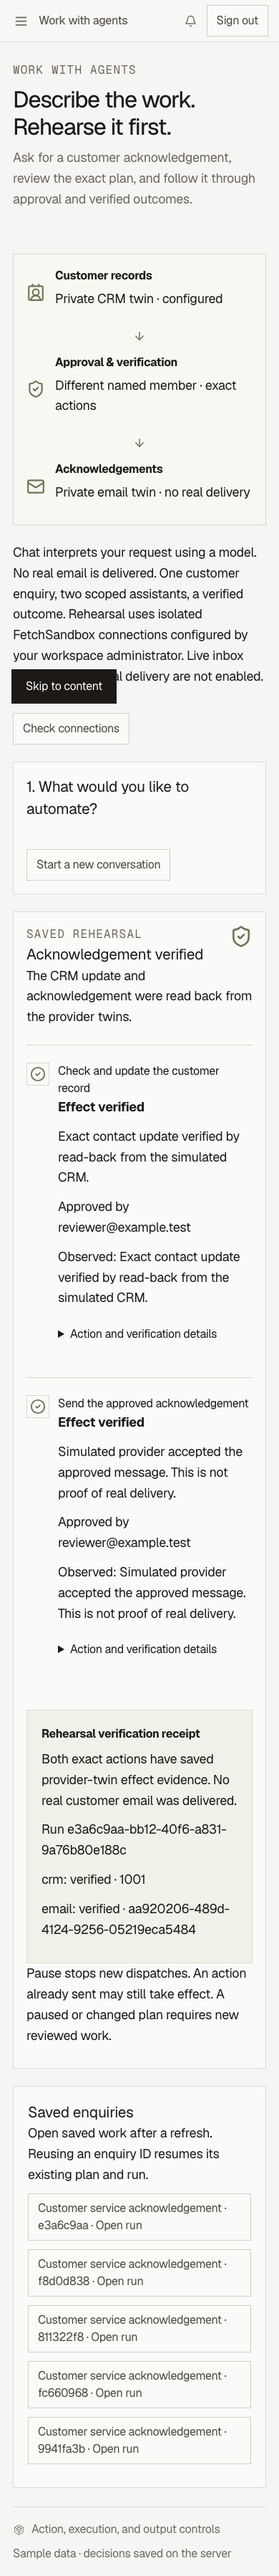
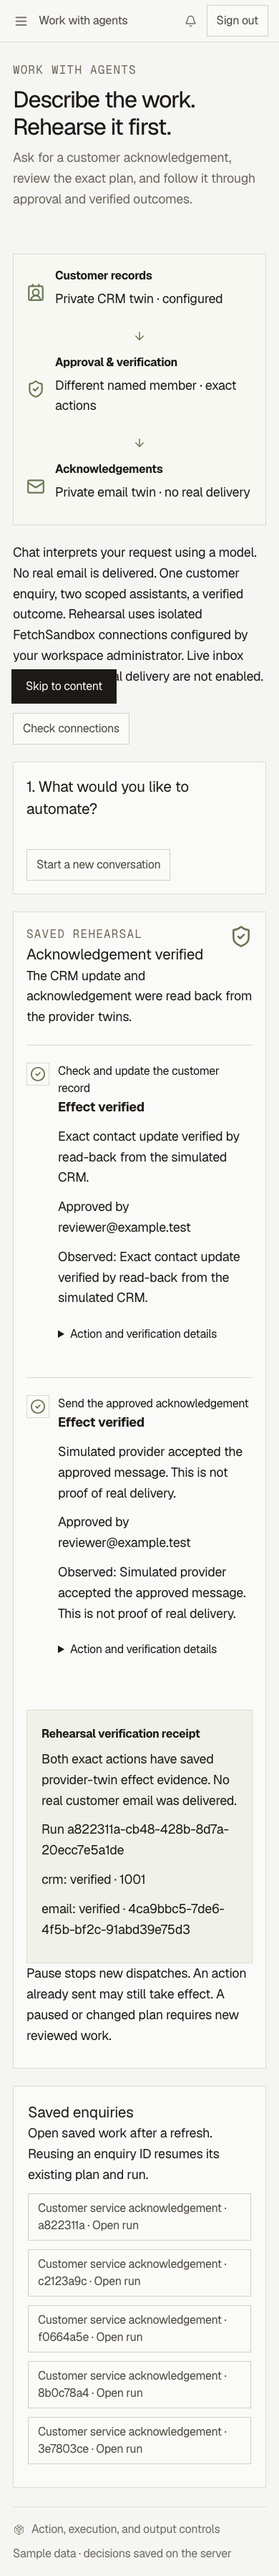
Preview hosted enquiries against the server-pinned contact without weakening execution

diff --git a/scripts/hosted-connector-proof.ts b/scripts/hosted-connector-proof.ts
@@ -66,7 +66,9 @@ async function main() {
     for (let i = 0; i < 100; i++) { if (api.exitCode !== null || api.signalCode !== null) throw Error("LoopLabs HTTP handlers failed to start"); const match = output.match(/\{"port":(\d+)\}/); if (match) { origin = `http://127.0.0.1:${match[1]}`; break; } await delay(100); }
     assert(origin, "LoopLabs HTTP readiness missing");
     async function apiCall(path: string, subject: string, value?: object) { return call(origin, path, actors[subject], value); }
-    const managed = await apiCall("/api/workspace/enquiries", "reviewer", { operation: "rehearse", id: randomUUID(), planHash: "a".repeat(64) });
+    const hostedPlan = await apiCall("/api/workspace/enquiries", "reviewer", { operation: "prepare", id: randomUUID(), fixtureId: "service" });
+    assert.equal(hostedPlan.status, 200); assert.equal(hostedPlan.data.saved.plan.contact.id, binding.contactId);
+    const managed = await apiCall("/api/workspace/enquiries", "reviewer", { operation: "rehearse", id: hostedPlan.data.saved.id, planHash: hostedPlan.data.saved.plan_hash });
     assert.equal(managed.status, 409); assert(managed.data.error.includes("atomic approval-version"));
     assert.equal((await db.query("SELECT count(*) FROM ll_connector_actions")).rows[0].count, "0");
     check("Managed hosted rehearsal refuses the missing atomic CRM guarantee before submitting any action");
@@ -119,7 +121,7 @@ async function main() {
     assert.equal((await apiCall("/api/durable/connectors", "executor", { operation: "execute", actionId: email.action_id })).status, 409);
     assert.equal((await rows(email.action_id)).length, 0);
     check("Unsupported atomic CRM version guard keeps the complete workflow held; no downstream email or false green");
-    const files = ["lib/durable/service.ts", "lib/workflows/service.ts", "lib/enquiries/dispatch.ts", "lib/connectors/hosted.ts", "lib/connectors/twin.ts", "lib/connectors/service.ts", "app/api/durable/connectors/route.ts", "app/api/durable/workflows/route.ts", "scripts/hosted-connector-proof.ts", "scripts/workflow-http-proof-server.ts"];
+    const files = ["lib/enquiries/service.ts", "lib/enquiries/contracts.ts", "app/api/workspace/enquiries/route.ts", "lib/durable/service.ts", "lib/workflows/service.ts", "lib/enquiries/dispatch.ts", "lib/connectors/hosted.ts", "lib/connectors/twin.ts", "lib/connectors/service.ts", "app/api/durable/connectors/route.ts", "app/api/durable/workflows/route.ts", "scripts/hosted-connector-proof.ts", "scripts/workflow-http-proof-server.ts"];
     const fingerprints: Record<string, string> = {};
     for (const file of files) fingerprints[file] = createHash("sha256").update(await readFile(file)).digest("hex");
     await writeFile("docs/evidence/hosted-connector-proof.json", JSON.stringify({ at: new Date().toISOString(), scope: "Actual LoopLabs HTTP handlers, isolated PostgreSQL, native FetchSandbox identity/API and Resend twin effects. No live provider or inbox delivery.", checks, acceptedResponseLossEvidence: lossEvidence, sourceFingerprints: fingerprints, limitations: ["CRM update cannot satisfy existing atomic approval-version invariant with this provider binding; downstream work stays held.", "Not a completed CRM-to-email workflow acceptance.", "No hosted provider restart/durable-session proof or production readiness claim."] }, null, 2) + "\n");

diff --git a/lib/enquiries/service.ts b/lib/enquiries/service.ts
@@ -7,7 +7,7 @@ import { WorkflowControl } from "../workflows/service";
 import { approvedReply, checkContact, enquiryFixture, validId, type Contact } from "./contracts";
 
 export class EnquiryControl {
-  constructor(readonly db: Pool, readonly workflows: WorkflowControl, readonly contact: () => Promise<Contact>) {}
+  constructor(readonly db: Pool, readonly workflows: WorkflowControl, readonly contact: () => Promise<Contact>, readonly contactId = "1001") {}
   async policies(c: PoolClient, actor: Actor) {
     await this.workflows.connectors.authority(c, actor, ["operator"]);
     const rows = (await c.query("SELECT connector,version FROM ll_connector_policies WHERE org_id=$1 AND active=true ORDER BY connector", [actor.orgId])).rows;
@@ -36,7 +36,7 @@ export class EnquiryControl {
   private async save(actor: Actor, id: string, fixtureId: string, fixture: { id: string; title: string; email: string; message: string }) {
     await transaction(this.db, actor.orgId, c => this.policies(c, actor));
     const contact = await this.contact();
-    checkContact(contact);
+    checkContact(contact, this.contactId);
     return transaction(this.db, actor.orgId, async (c) => {
       const versions = await this.policies(c, actor);
       const old = (await c.query("SELECT * FROM ll_enquiry_plans WHERE org_id=$1 AND id=$2", [actor.orgId, id])).rows[0];
@@ -64,7 +64,7 @@ export class EnquiryControl {
     if (typeof hash !== "string" || !/^[a-f0-9]{64}$/.test(hash)) throw new ControlError(400, "Review the exact saved plan first.");
     await transaction(this.db, actor.orgId, (c) => this.policies(c, actor));
     const contact = await this.contact();
-    checkContact(contact);
+    checkContact(contact, this.contactId);
     return transaction(this.db, actor.orgId, async (c) => {
       const versions = await this.policies(c, actor);
       const plan = (await c.query("SELECT * FROM ll_enquiry_plans WHERE org_id=$1 AND id=$2", [actor.orgId, id])).rows[0];
@@ -72,7 +72,7 @@ export class EnquiryControl {
       if (plan.plan_hash !== hash) throw new ControlError(409, "The plan changed. Review it again before starting work.");
       // A response lost after commit must resume the same immutable run, not
       // reject solely because that run has since changed the provider version.
-      if (!plan.run_id && (plan.source_version !== contact.version || JSON.stringify(plan.policy_versions) !== JSON.stringify(versions)))
+      if (!plan.run_id && (plan.plan.contact.id !== contact.id || plan.plan.contact.email !== contact.email || plan.source_version !== contact.version || JSON.stringify(plan.policy_versions) !== JSON.stringify(versions)))
         throw new ControlError(409, "The record or policy changed. Prepare a new plan and review it before execution.");
       if (!plan.run_id && (await c.query("SELECT 1 FROM ll_workflow_runs WHERE org_id=$1 AND id=$2", [actor.orgId, id])).rows[0])
         throw new ControlError(409, "This ID already belongs to unrelated work. Start a new enquiry plan.");

diff --git a/app/api/workspace/enquiries/route.ts b/app/api/workspace/enquiries/route.ts
@@ -19,7 +19,7 @@ async function context(r: NextRequest) {
   const enquiries = new EnquiryControl(db, workflows, async () => {
     const record = await twin.contact();
     return { id: record.id, email: record.properties?.email, version: record.updatedAt, lifecycle: record.properties?.lifecyclestage };
-  });
+  }, twin.contactId || "1001");
   return { actor, enquiries, twin, db };
 }
 export async function GET(r: NextRequest) {
@@ -38,7 +38,7 @@ export async function POST(r: NextRequest) {
     let result;
     if (p.operation === "checkConnections" && Object.keys(p).length === 1) {
       await enquiries.list(actor); // Authorize the workspace before making a provider read.
-      const contact = await enquiries.contact(); checkContact(contact);
+      const contact = await enquiries.contact(); checkContact(contact, enquiries.contactId);
       result = { checkedAt: new Date().toISOString(), crmReadable: true, sampleCustomer: contact.email, atomicVersion: !(twin instanceof HostedFetchSandboxConnectors), realDelivery: false };
     }
     else if (p.operation === "prepare" && Object.keys(p).length === 3 && typeof p.id === "string" && typeof p.fixtureId === "string")

diff --git a/lib/enquiries/service.test.ts b/lib/enquiries/service.test.ts
@@ -316,3 +316,16 @@ it("rotates the durable cursor so held older work cannot starve a newer approved
   expect(writes).toBe(2);
   expect((await workflow.list(operator)).filter(r => r.state === "active")).toHaveLength(11);
 });
+
+it("uses only the server-pinned hosted contact ID and refuses an unbound same-email record", async () => {
+  const privatePlan = await prepared();
+  contact.id = "1";
+  const hosted = new EnquiryControl(db, workflow, async () => contact, "1");
+  const saved = await hosted.prepare(operator, randomUUID(), "service") as { saved: { plan: { contact: { id: string } } } };
+  expect(saved.saved.plan.contact.id).toBe("1");
+  await expect(hosted.start(operator, privatePlan.id, privatePlan.plan_hash, "crm", "email")).rejects.toThrow("record or policy changed");
+  contact.id = "2";
+  await expect(hosted.prepare(operator, randomUUID(), "service")).rejects.toThrow("unique supported contact");
+  expect(() => checkContact(contact, "bad")).toThrow();
+  expect(writes).toBe(0);
+});

diff --git a/lib/enquiries/contracts.ts b/lib/enquiries/contracts.ts
@@ -17,8 +17,8 @@ export function enquiryFixture(id: unknown) {
   if (!fixture) throw new ControlError(400, "Choose a supported sample enquiry.");
   return fixture;
 }
-export function checkContact(contact: Contact) {
-  if (!contact || contact.id !== "1001" || contact.email !== approvedReply.recipient || typeof contact.version !== "string" || !contact.version || contact.version.length > 256 || !["lead", "customer"].includes(contact.lifecycle))
+export function checkContact(contact: Contact, expectedId = "1001") {
+  if (typeof expectedId !== "string" || !/^[0-9]{1,24}$/.test(expectedId) || !contact || contact.id !== expectedId || contact.email !== approvedReply.recipient || typeof contact.version !== "string" || !contact.version || contact.version.length > 256 || !["lead", "customer"].includes(contact.lifecycle))
     throw new ControlError(409, "A unique supported contact and trusted version are required. Nothing was changed.");
 }
 export function validId(id: unknown): asserts id is string {

diff --git a/lib/workflows/service.ts b/lib/workflows/service.ts
@@ -147,7 +147,7 @@ export class WorkflowControl {
         steps:
           actor.role === "agent"
             ? steps.filter((s) => s.agent_id === actor.subject)
-            : steps.map(s => ({ ...s, proposedRequest: { method: s.connector === "crm" ? "PATCH" : "POST", resource: s.connector === "crm" ? "CRM contact 1001" : "Email acknowledgement", body: connectorBody(s), approvedSourceVersion: s.approved_payload?.sourceVersion || null } })),
+            : steps.map(s => ({ ...s, proposedRequest: { method: s.connector === "crm" ? "PATCH" : "POST", resource: s.connector === "crm" ? `CRM contact ${this.connectors.provider.contactId || "1001"}` : "Email acknowledgement", body: connectorBody(s), approvedSourceVersion: s.approved_payload?.sourceVersion || null } })),
       };
     });
   }

diff --git a/lib/connectors/hosted.ts b/lib/connectors/hosted.ts
@@ -12,6 +12,7 @@ export interface HostedBinding {
 const unavailable = () => new ControlError(503, "Hosted connector evidence unavailable. No safe retry inferred.");
 export class HostedFetchSandboxConnectors implements ConnectorProvider {
   readonly workspaceId: string;
+  get contactId() { return this.binding.contactId; }
   constructor(readonly binding: HostedBinding, readonly timeout = 1500) {
     if (!binding || !["https://fetchsandbox.com", "https://stage.fetchsandbox.com", "http://127.0.0.1:8019"].includes(binding.origin)
       || typeof binding.ownerKey !== "string" || !/^fsk_[a-zA-Z0-9_-]{20,128}$/.test(binding.ownerKey)

diff --git a/lib/connectors/twin.ts b/lib/connectors/twin.ts
@@ -7,6 +7,7 @@ import type {
 } from "./contracts";
 export class FetchSandboxConnectors implements ConnectorProvider {
   readonly workspaceId = "local-proof";
+  readonly contactId = "1001";
   constructor(
     readonly base = process.env.LOOPLABS_CONNECTOR_TWIN_URL || "",
     readonly token = process.env.LOOPLABS_CONNECTOR_TWIN_TOKEN || "",

diff --git a/lib/connectors/contracts.ts b/lib/connectors/contracts.ts
@@ -42,6 +42,7 @@ export interface Observation {
   detail: string;
 }
 export interface ConnectorProvider {
+  readonly contactId?: string;
   readonly workspaceId: string;
   source(connector: Connector): Promise<string | null>;
   write(action: ConnectorAction, loseResponse: boolean): Promise<Observation>;

diff --git a/docs/FETCHSANDBOX_ENQUIRY_HANDOFF.md b/docs/FETCHSANDBOX_ENQUIRY_HANDOFF.md
@@ -23,6 +23,8 @@ The runner uses the same execution/verification service contracts as the existin
 
 ## Provider contract to resolve
 
+The sample contact is pinned by the server binding, not chosen by chat. Private mode uses contact 1001; hosted mode can preview the configured numeric contact ID while still requiring customer@example.test and the approved template. Changing bindings requires containing existing runs and invalidating old policy/approval authority; never reassign a provider underneath pending actions.
+
 For CRM, the write must atomically compare the approved source version **at the provider effect boundary**. A preflight GET followed by an unconditional PATCH is insufficient: another writer can change the record between those operations. No weakening to last-write-wins or pretending a matching final value proves the specific action is acceptable.
 
 The binding needs stable action idempotency, workspace isolation, an atomic expected-version conditional write, action-correlated accepted/effect evidence, and independent read-back. The current private twin uses an If-Match conditional PATCH and action-specific `/proof/effects/{actionId}` evidence. Hosted HubSpot/Resend paths are different and must implement/document a real capability rather than assuming private fixture extensions exist in hosted or live HubSpot.
